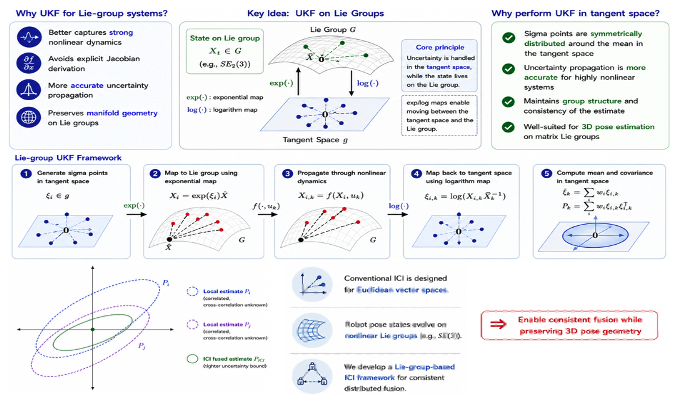
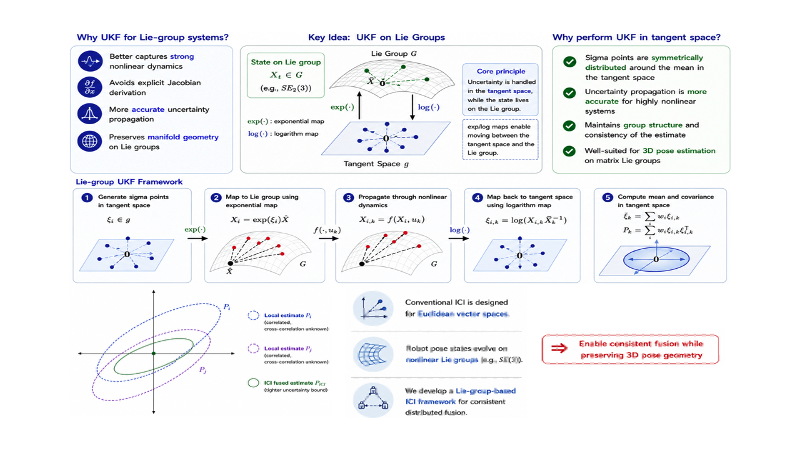
Pad IUKF-ICI teaser with white margin so thumbnail doesn't crop titles

Changed region(s): [[0.0, 0.0, 0.9912, 0.9851], [0.2788, 0.3582, 0.3407, 0.3881]]

diff --git a/index.html b/index.html
@@ -184,7 +184,7 @@
             </article>
 
             <article class="rail-card media soft">
-              <img src="assets/proj_img/IUKF-ICI.png?v=3" alt="Distributed invariant unscented Kalman filter simulation preview" loading="lazy">
+              <img src="assets/proj_img/IUKF-ICI.png?v=4" alt="Distributed invariant unscented Kalman filter simulation preview" loading="lazy">
               <div>
                 <div class="card-head">
                   <h3><a class="research-title-link" href="https://arxiv.org/abs/2409.17997">Distributed Invariant Unscented Kalman Filter based on Inverse Covariance Intersection with Intermittent Measurements</a></h3>
